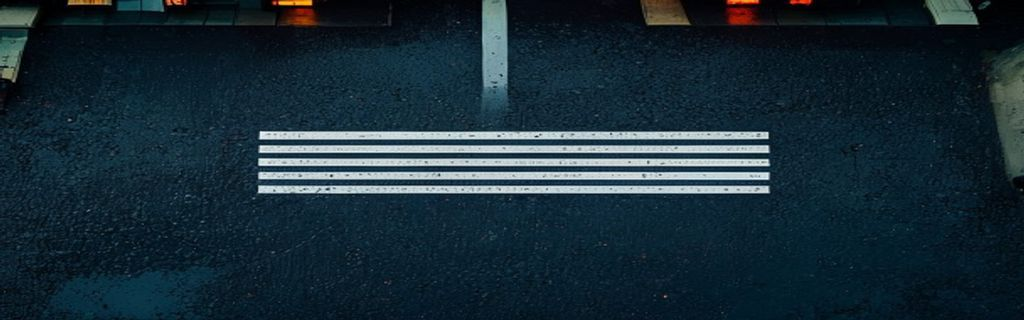
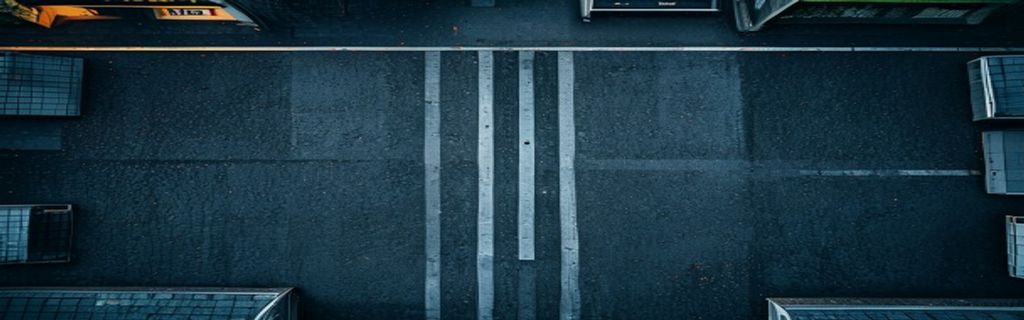
fix(levels): vertical zebra stripes for the hostage-QTE crossing
Follow-up to the merged road backdrop (#80): in-game the passage piéton read
with HORIZONTAL bars. Turn them vertical (kerb-to-kerb across the facade-parallel
street) — how a crossing reads to the player, and more robust to the crop since
vertical bars span the full image height and stay visible wherever they land in
the thin band the QTE reveals. One-variable prompt change (horizontal → upright
vertical) + regenerated asset (seed 5502, pinned). Re-composited under the facade
at the exact QTE framing.

Claude-Session: https://claude.ai/code/session_01SYo8TB9h8RJgfM1nq1ad5L

diff --git a/docs/art-direction/prompt-drafts/level-street.md b/docs/art-direction/prompt-drafts/level-street.md
@@ -20,15 +20,15 @@ piéton** (Bertrand: _"it lacks of passage piéton"_) — a faded zebra crossing
 else. Muted, DARK, matched to the facade's near-black ground strip so the two are
 continuous.
 
-**Final prompt** (seed committed: 3303 — PIN it, see reroll risk below):
+**Final prompt** (seed committed: 5502 — PIN it, see reroll risk below):
 
 ```
 flat overhead top-down view of a very dark wet parisian asphalt road surface seen
 straight from directly above, near-black bitumen colour #0E1418 filling the whole
 frame edge to edge, low-key dim night lighting deep in shadow, smooth fine grain
 with only a few sparse faint reflections, a faded white pedestrian crossing of
-several evenly spaced parallel horizontal white zebra stripes painted flat across
-the road near the top, flat level ground plane, no horizon
+several evenly spaced parallel upright vertical white zebra stripes running top to
+bottom across the road, flat level ground plane, no horizon
 ```
 
 Rationale (clause → the failure it locks down):
@@ -42,16 +42,19 @@ Rationale (clause → the failure it locks down):
 - `low-key dim night lighting deep in shadow … only a few sparse faint reflections` →
   counters the shared `style` tail's "warm orange + magenta cyan neon accents" that
   otherwise brightens the surface into a lighter, busier band than the facade base.
-- `a faded white pedestrian crossing of several evenly spaced parallel horizontal white
-zebra stripes … near the top` → the requested marking; "horizontal" + "near the top"
-  place the crossing inside the ~37–51% band the QTE actually reveals (stripes parallel
-  to the road = geometrically correct for a crossing over the facade-parallel street).
+- `a faded white pedestrian crossing of several evenly spaced parallel upright vertical
+white zebra stripes running top to bottom across the road` → the requested marking.
+  Bertrand's call after seeing it in-game: the bars run VERTICAL (kerb-to-kerb across the
+  facade-parallel street), the way a passage piéton reads to the player. Vertical bars
+  are also more robust to the crop — they span the full image height, so they stay
+  visible whatever their position in the thin ~37–51% band the QTE reveals (the earlier
+  horizontal bars only showed when they happened to land inside that slice).
 - `flat level ground plane, no horizon` → reinforces the overhead read (the sole
   negation, within the ≤2 bible budget).
 
 **Reroll risk (lead-art watch-item).** `gen-level-art.mjs` picks a RANDOM seed; the
 edge rooftops FLUX leaves at ~0–8% / 92–100% of the frame are only harmless because
-they crop OUTSIDE the QTE-visible band at seed 3303. A different seed can land a
+they crop OUTSIDE the QTE-visible band at seed 5502. A different seed can land a
 building row inside the band and reintroduce the "miroir de l'immeuble" failure — so
 regenerate this backdrop ONLY with the pinned seed, never a random reroll.
 
@@ -63,6 +66,9 @@ regenerate this backdrop ONLY with the pinned seed, never a random reroll.
 - Dashed-line dark version (`dark_9204`): PASSED the lead-art gate, but Bertrand asked
   for a passage piéton instead → swapped the marking clause only (dashed line → zebra
   crossing) and folded in the gate's hex-anchor note in the same pass.
+- Horizontal crossing (`pp_3303`, merged in #80): correct crossing but the bars ran
+  HORIZONTAL; Bertrand wanted them vertical → swapped "horizontal … near the top" →
+  "upright vertical … running top to bottom" (one variable), committed as seed 5502.
 - Early full-scene neon roads (`road_*`, `final_*`): clean roads but saturated
   neon-noir, wrong palette, occasional corner buildings — rejected on integration.
 
